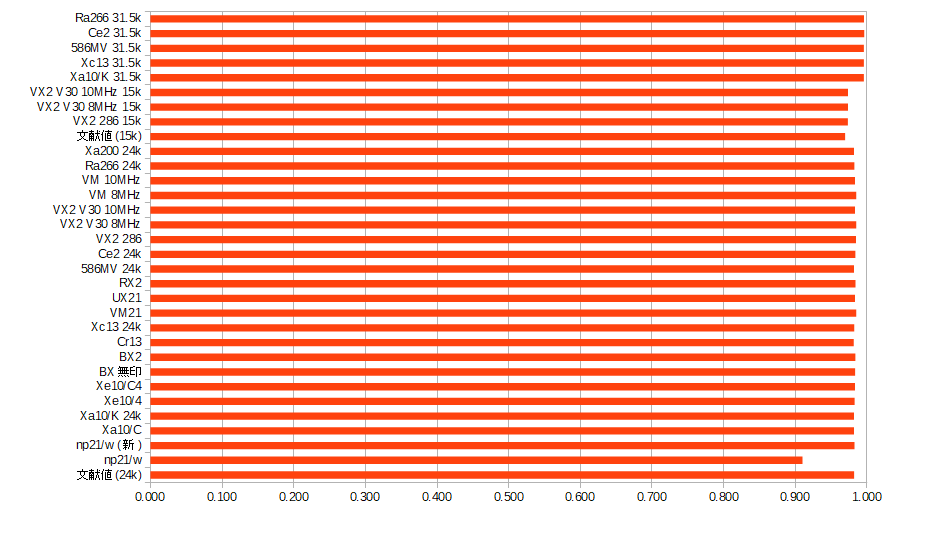
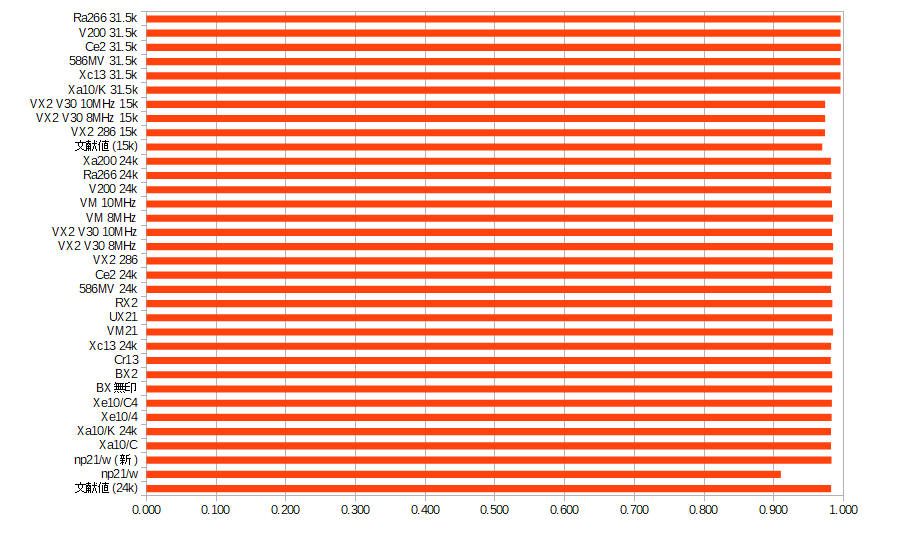
更新

diff --git a/docs/vsync.html b/docs/vsync.html
@@ -82,24 +82,24 @@
 	<table style="width:auto;" class="vsync-table" border=1>
 		<thead>
 		<tr>
-		<th></th><th>文献値(24k)</th><th>np21/w</th><th>np21/w (新)</th><th>Xa10/C</th><th>Xa10/K 24k</th><th>Xe10/4</th><th>Xe10/C4</th><th>BX無印</th><th>BX2</th><th>Cr13</th><th>Xc13 24k</th><th>VM21</th><th>UX21</th><th>RX2</th><th>586MV 24k</th><th>Ce2 24k</th><th>VX2 286</th><th>VX2 V30 8MHz</th><th>VX2 V30 10MHz</th><th>VM 8MHz</th><th>VM 10MHz</th><th>Ra266 24k</th><th>Xa200 24k</th><th>文献値(15k)</th><th>VX2 286 15k</th><th>VX2 V30 8MHz 15k</th><th>VX2 V30 10MHz 15k</th><th>Xa10/K 31.5k</th><th>Xc13 31.5k</th><th>586MV 31.5k</th><th>Ce2 31.5k</th><th>Ra266 31.5k</th><th>Xa200 31.5k</th>
+		<th></th><th>文献値(24k)</th><th>np21/w</th><th>np21/w (新)</th><th>Xa10/C</th><th>Xa10/K 24k</th><th>Xe10/4</th><th>Xe10/C4</th><th>BX無印</th><th>BX2</th><th>Cr13</th><th>Xc13 24k</th><th>VM21</th><th>UX21</th><th>RX2</th><th>586MV 24k</th><th>Ce2 24k</th><th>VX2 286</th><th>VX2 V30 8MHz</th><th>VX2 V30 10MHz</th><th>VM 8MHz</th><th>VM 10MHz</th><th>V200 24k</th><th>Ra266 24k</th><th>Xa200 24k</th><th>文献値(15k)</th><th>VX2 286 15k</th><th>VX2 V30 8MHz 15k</th><th>VX2 V30 10MHz 15k</th><th>Xa10/K 31.5k</th><th>Xc13 31.5k</th><th>586MV 31.5k</th><th>Ce2 31.5k</th><th>V200 31.5k</th><th>Ra266 31.5k</th><th>Xa200 31.5k</th>
 		</tr>
 		</thead>
 		<tbody>
 		<tr>
-		<th>VSync IRQ</th><td>?</td><td>2437</td><td>14055</td><td>8702</td><td>7725</td><td>11225</td><td>8976</td><td>3677</td><td>4963</td><td>8872</td><td>8825</td><td>525</td><td>1283</td><td>1528</td><td>7481</td><td>4964</td><td>1086</td><td>525</td><td>648</td><td>525</td><td>648</td><td>8624</td><td>10877</td><td>?</td><td>984</td><td>476</td><td>588</td><td>6284</td><td>7178</td><td>6054</td><td>4052</td><td>7015</td><td>8847</td>
+		<th>VSync IRQ</th><td>?</td><td>2437</td><td>14055</td><td>8702</td><td>7725</td><td>11225</td><td>8976</td><td>3677</td><td>4963</td><td>8872</td><td>8825</td><td>525</td><td>1283</td><td>1528</td><td>7481</td><td>4964</td><td>1086</td><td>525</td><td>648</td><td>525</td><td>648</td><td>11126</td><td>8624</td><td>10877</td><td>?</td><td>984</td><td>476</td><td>588</td><td>6284</td><td>7178</td><td>6054</td><td>4052</td><td>9050</td><td>7015</td><td>8847</td>
 		</tr>
 		<tr>
-		<th>VSync High</th><td>17.4</td><td>2437</td><td>14055</td><td>8544</td><td>7725</td><td>11030</td><td>8825</td><td>3677</td><td>4963</td><td>8873</td><td>8826</td><td>525</td><td>1283</td><td>1528</td><td>7482</td><td>4964</td><td>1086</td><td>525</td><td>648</td><td>525</td><td>648</td><td>8625</td><td>10877</td><td>15.83</td><td>984</td><td>476</td><td>588</td><td>6284</td><td>7179</td><td>6054</td><td>4052</td><td>7016</td><td>8848</td>
+		<th>VSync High</th><td>17.4</td><td>2437</td><td>14055</td><td>8544</td><td>7725</td><td>11030</td><td>8825</td><td>3677</td><td>4963</td><td>8873</td><td>8826</td><td>525</td><td>1283</td><td>1528</td><td>7482</td><td>4964</td><td>1086</td><td>525</td><td>648</td><td>525</td><td>648</td><td>11127</td><<td>8625</td><td>10877</td><td>15.83</td><td>984</td><td>476</td><td>588</td><td>6284</td><td>7179</td><td>6054</td><td>4052</td><td>9051</td><td>7016</td><td>8848</td>
 		</tr>
 		<tr>
-		<th>VSync Low</th><td>17.72</td><td>2678</td><td>14304</td><td>8702</td><td>7868</td><td>11224</td><td>8976</td><td>3739</td><td>5045</td><td>9040</td><td>8987</td><td>533</td><td>1305</td><td>1553</td><td>7620</td><td>5046</td><td>1103</td><td>533</td><td>659</td><td>533</td><td>659</td><td>8780</td><td>11079</td><td>16.33</td><td>1011</td><td>489</td><td>604</td><td>6312</td><td>7211</td><td>6081</td><td>4068</td><td>7046</td><td>8887</td>
+		<th>VSync Low</th><td>17.72</td><td>2678</td><td>14304</td><td>8702</td><td>7868</td><td>11224</td><td>8976</td><td>3739</td><td>5045</td><td>9040</td><td>8987</td><td>533</td><td>1305</td><td>1553</td><td>7620</td><td>5046</td><td>1103</td><td>533</td><td>659</td><td>533</td><td>659</td><td>11333</td><<td>8780</td><td>11079</td><td>16.33</td><td>1011</td><td>489</td><td>604</td><td>6312</td><td>7211</td><td>6081</td><td>4068</td><td>9092</td><td>7046</td><td>8887</td>
 		</tr>
 		<tr>
-		<th>Ratio</th><td>0.982</td><td>0.910</td><td>0.983</td><td>0.982</td><td>0.982</td><td>0.983</td><td>0.983</td><td>0.983</td><td>0.984</td><td>0.982</td><td>0.982</td><td>0.985</td><td>0.983</td><td>0.984</td><td>0.982</td><td>0.984</td><td>0.985</td><td>0.985</td><td>0.983</td><td>0.985</td><td>0.983</td><td>0.982</td><td>0.982</td><td>0.969</td><td>0.973</td><td>0.973</td><td>0.974</td><td>0.996</td><td>0.996</td><td>0.996</td><td>0.996</td><td>0.996</td><td>0.996</td>
+		<th>Ratio</th><td>0.982</td><td>0.910</td><td>0.983</td><td>0.982</td><td>0.982</td><td>0.983</td><td>0.983</td><td>0.983</td><td>0.984</td><td>0.982</td><td>0.982</td><td>0.985</td><td>0.983</td><td>0.984</td><td>0.982</td><td>0.984</td><td>0.985</td><td>0.985</td><td>0.983</td><td>0.985</td><td>0.983</td><td>0.982</td><td>0.982</td><td>0.982</td><td>0.969</td><td>0.973</td><td>0.973</td><td>0.974</td><td>0.996</td><td>0.996</td><td>0.996</td><td>0.996</td><td>0.995</td><td>0.996</td><td>0.996</td>
 		</tr>
 		<tr>
-		<th>割込位置</th><td>?</td><td>High</td><td>High</td><td>Low</td><td>High</td><td>Low</td><td>Low</td><td>High</td><td>High</td><td>High</td><td>High</td><td>High</td><td>High</td><td>High</td><td>High</td><td>High</td><td>High</td><td>High</td><td>High</td><td>High</td><td>High</td><td>High</td><td>High</td><td>?</td><td>High</td><td>High</td><td>High</td><td>High</td><td>High</td><td>High</td><td>High</td><td>High</td><td>High</td>
+		<th>割込位置</th><td>?</td><td>High</td><td>High</td><td>Low</td><td>High</td><td>Low</td><td>Low</td><td>High</td><td>High</td><td>High</td><td>High</td><td>High</td><td>High</td><td>High</td><td>High</td><td>High</td><td>High</td><td>High</td><td>High</td><td>High</td><td>High</td><td>High</td><td>High</td><td>High</td><td>?</td><td>High</td><td>High</td><td>High</td><td>High</td><td>High</td><td>High</td><td>High</td><td>High</td><td>High</td><td>High</td>
 		</tr>
 		</tbody>
 	</table>
